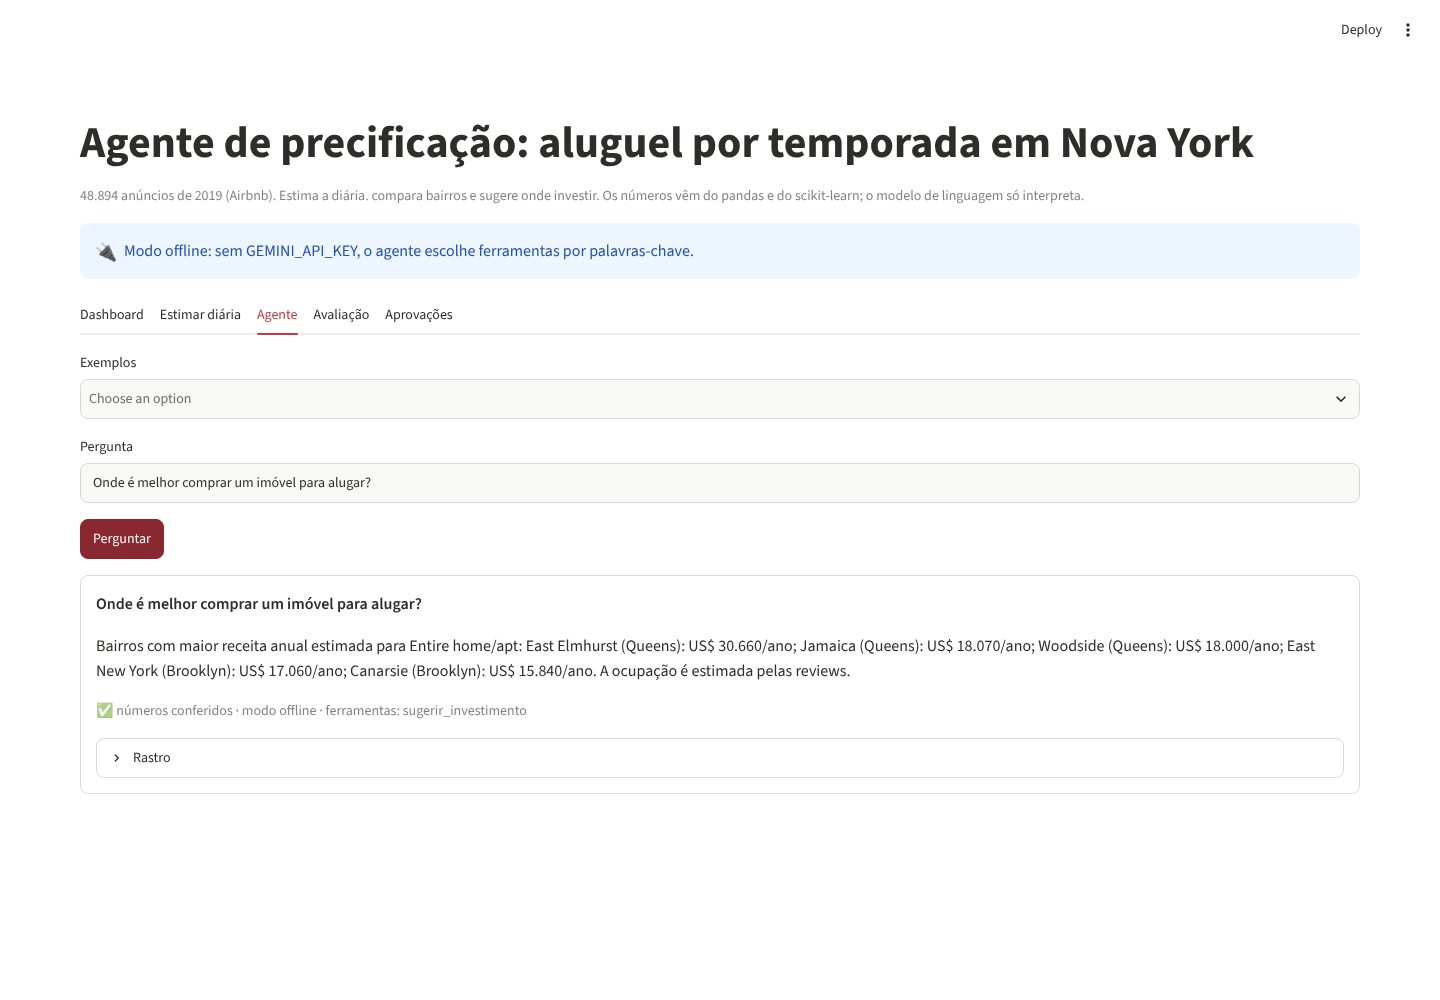
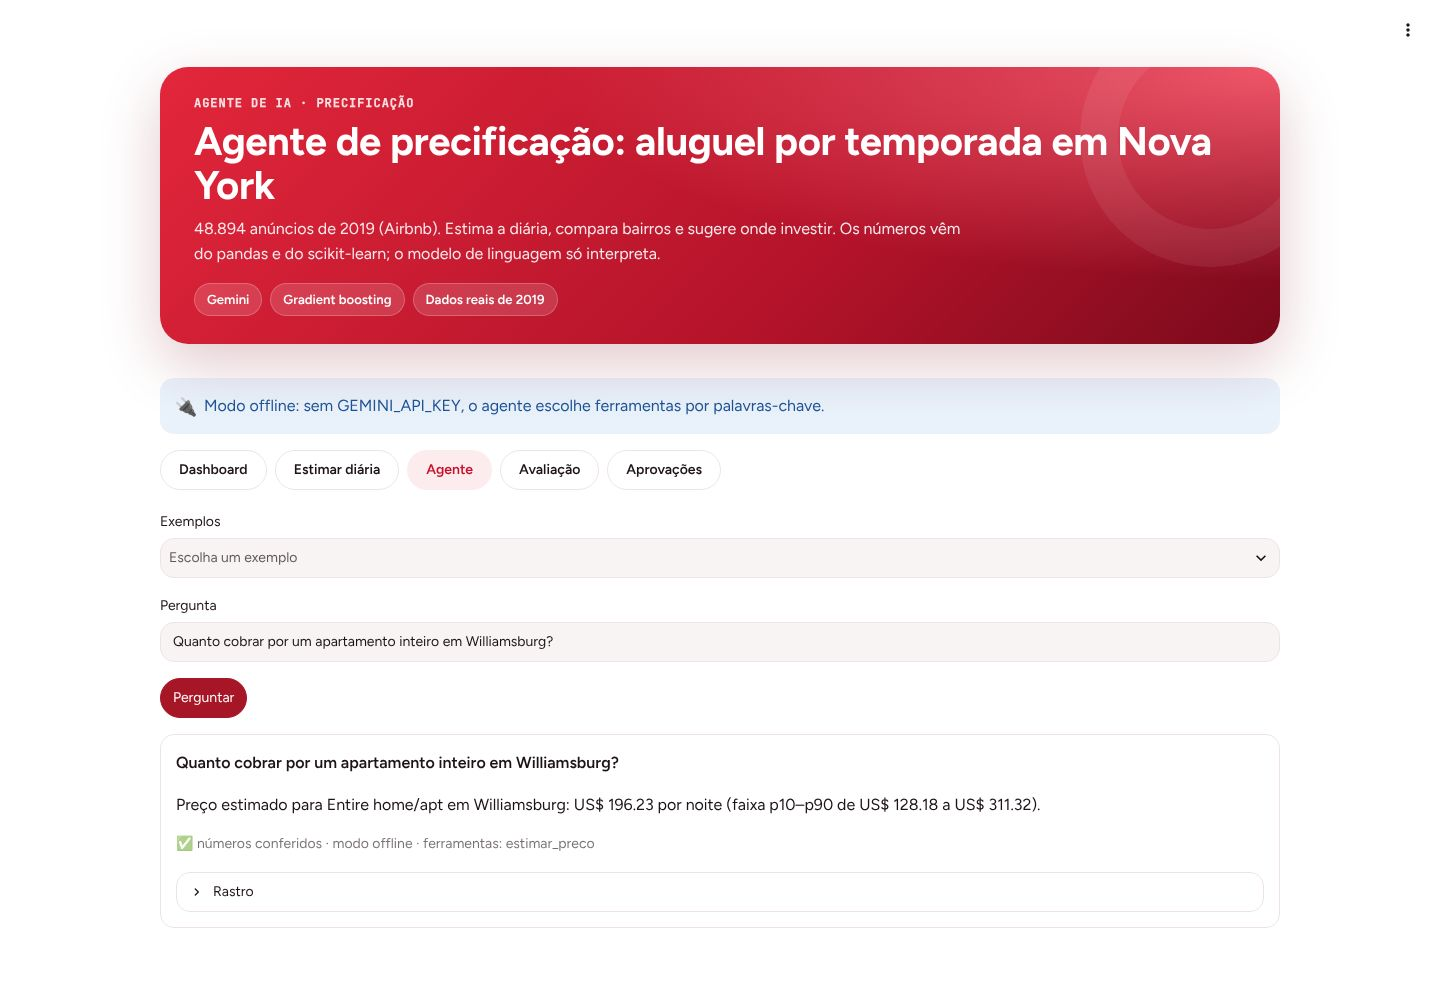
Dashboard com a identidade visual do portfólio
- .streamlit/config.toml: tema claro e escuro (vermelho #E3263B, Figtree e Bricolage Grotesque) e paletas de gráfico validadas para daltonismo
- app/tema.py: cabeçalho, cards de KPI, abas em pílula, selos de status com ícone e cores dos gráficos pela paleta
- capturas do README refeitas; streamlit>=1.51 (seções [theme.light] e [theme.dark])

Claude-Session: https://claude.ai/code/session_01WR8CaPDQRav6xXD6FyLt9e

diff --git a/app/tema.py b/app/tema.py
@@ -1,0 +1,142 @@
+"""Identidade visual compartilhada pelos dashboards: a mesma do portfólio (henriquecm02.github.io).
+
+Cores, fontes e raios ficam em `.streamlit/config.toml` (modo claro e escuro). Este módulo só acrescenta o que o tema
+do Streamlit não cobre: o cabeçalho, os cards de KPI, as abas em pílula e cores para traços com cor explícita.
+Copiado de forma idêntica em cada repositório, como o agentcore.py.
+"""
+from __future__ import annotations
+
+import html
+
+import streamlit as st
+
+# Mesma ordem das paletas do config.toml (validadas para daltonismo). Cor segue a entidade, nunca a posição.
+PALETA = {"claro": ["#E3263B", "#2a78d6", "#eda100", "#1baf7a", "#6250d6"],
+          "escuro": ["#E8455A", "#3987e5", "#c98500", "#199e70", "#9085e9"]}
+NEUTRO = {"claro": "#9A8A8D", "escuro": "#8C7E80"}  # série de referência: histórico, linha de base
+# Escala sequencial (magnitude): um só tom, do claro ao escuro (no modo escuro, do escuro ao claro).
+SEQUENCIAL = {"claro": ["#FDECEE", "#F6B3BC", "#EC6A7B", "#E3263B", "#B3132A", "#7A0A1B"],
+              "escuro": ["#3A1218", "#7A0A1B", "#B3132A", "#E3263B", "#EC6A7B", "#F6B3BC"]}
+STATUS = {"ok": ("#157347", "✅"), "atencao": ("#8A5200", "⚠"), "critico": ("#C8102E", "⛔")}
+
+
+def modo() -> str:
+    try:
+        return "escuro" if st.context.theme.type == "dark" else "claro"
+    except Exception:  # noqa: BLE001 - fora de uma sessão (testes, scripts) não há tema
+        return "claro"
+
+
+def cor(i: int) -> str:
+    """Cor categórica do slot i (0 = vermelho da marca)."""
+    return PALETA[modo()][i]
+
+
+def cores(n: int) -> list[str]:
+    """As n primeiras cores categóricas, na ordem fixa. Mais de 5 séries: agrupar em "Outros" ou separar."""
+    if n > len(PALETA["claro"]):
+        raise ValueError("Mais de 5 séries: agrupe em 'Outros' ou use pequenos múltiplos.")
+    return PALETA[modo()][:n]
+
+
+def sequencial() -> list[str]:
+    return SEQUENCIAL[modo()]
+
+
+def neutro() -> str:
+    return NEUTRO[modo()]
+
+
+def texto_secundario() -> str:
+    """Cor de rótulos de valor dentro de gráficos: texto, nunca a cor da série."""
+    return "#B9ACAE" if modo() == "escuro" else "#6B5C5F"
+
+
+def rgba(hex_: str, alpha: float) -> str:
+    h = hex_.lstrip("#")
+    return f"rgba({int(h[0:2], 16)},{int(h[2:4], 16)},{int(h[4:6], 16)},{alpha})"
+
+
+def selo(nivel: str, texto: str) -> str:
+    """Selo de status em HTML: sempre ícone + texto, nunca só a cor."""
+    c, icone = STATUS[nivel]
+    return (f'<span class="hc-selo" style="--c:{c}">{icone} {html.escape(texto)}</span>')
+
+
+_CSS = """
+<style>
+.block-container, [data-testid="stMainBlockContainer"] { padding-top: 4.2rem; max-width: 1280px; }
+[data-testid="stHeader"] { background: transparent; }
+h1, h2, h3 { letter-spacing: -0.01em; }
+.hc-hero { position: relative; overflow: hidden; border-radius: 28px; padding: 30px 34px 28px;
+  margin: 0 0 18px;
+  color: #fff; background: radial-gradient(120% 140% at 100% 0%, #F0566A 0%, rgba(240,86,106,0) 55%),
+  linear-gradient(135deg, #E3263B 0%, #B3132A 62%, #7A0A1B 100%);
+  box-shadow: 0 20px 60px rgba(122,10,27,.22); }
+.hc-hero::after { content: ""; position: absolute; right: -60px; top: -60px; width: 260px; height: 260px;
+  border-radius: 50%;
+  border: 38px solid rgba(255,255,255,.07); }
+.hc-hero .k { font: 700 12px/1 var(--hc-mono, "JetBrains Mono", monospace); letter-spacing: .08em;
+  text-transform: uppercase;
+  opacity: .85; margin-bottom: 10px; }
+.hc-hero h1 { color: #fff !important; font-size: clamp(1.7rem, 3.2vw, 2.5rem); line-height: 1.1;
+  margin: 0 0 10px; padding: 0; }
+.hc-hero p { color: rgba(255,255,255,.9); max-width: 780px; margin: 0; font-size: 1rem; line-height: 1.55; }
+.hc-hero .chips { display: flex; flex-wrap: wrap; gap: 8px; margin-top: 16px; }
+.hc-hero .chips span { background: rgba(255,255,255,.14); border: 1px solid rgba(255,255,255,.22);
+  border-radius: 999px;
+  padding: 5px 12px; font-size: .82rem; font-weight: 600; }
+[data-testid="stMetric"] { background: var(--hc-surface); border: 1px solid var(--hc-line);
+  border-radius: 20px;
+  padding: 16px 18px; min-height: 118px;
+  box-shadow: 0 1px 2px rgba(60,10,20,.05), 0 6px 18px rgba(60,10,20,.06); }
+[data-testid="stMetricLabel"] p { font-weight: 600; color: var(--hc-muted); }
+[data-testid="stMetricValue"] { font-weight: 700; letter-spacing: -0.02em; }
+[data-testid="stMetricDelta"] { max-width: 100%; border-radius: 10px !important; height: auto !important; }
+[data-testid="stMetricDelta"] p { white-space: normal !important; overflow: visible !important; }
+[role="tablist"] { gap: 8px; flex-wrap: wrap; border: 0 !important; box-shadow: none !important;
+  padding-bottom: 4px; }
+[role="tablist"]::after, [role="tablist"]::before { display: none !important; }
+[data-baseweb="tab-highlight"], [data-baseweb="tab-border"], .react-aria-SelectionIndicator { display: none
+  !important; }
+[role="tab"] { border-radius: 999px !important; padding: 8px 18px !important;
+  border: 1px solid var(--hc-line) !important;
+  background: var(--hc-surface) !important; height: auto !important;
+  transition: background .15s, border-color .15s; }
+[role="tab"]:hover { border-color: var(--hc-red) !important; }
+[role="tab"] p { font-weight: 600; margin: 0; }
+[role="tab"][aria-selected="true"] { background: var(--hc-soft) !important;
+  border-color: transparent !important; }
+[role="tab"][aria-selected="true"] p { color: var(--hc-red); }
+[data-testid="stVerticalBlockBorderWrapper"]:has(> div > [data-testid="stVerticalBlock"]) { border-radius:
+  20px; }
+[data-testid="stAlert"] { border-radius: 16px; }
+.hc-selo { display: inline-flex; align-items: center; gap: 6px; padding: 3px 10px; border-radius: 999px;
+  font-weight: 600;
+  font-size: .85rem; color: var(--c); background: color-mix(in srgb, var(--c) 12%, transparent); }
+.hc-nota { color: var(--hc-muted); font-size: .9rem; }
+</style>
+"""
+_TOKENS = {
+    "claro": "--hc-surface:#FFFFFF;--hc-line:#EEE4E5;--hc-muted:#6B5C5F;--hc-soft:#FDECEE;--hc-red:#C8102E;",
+    "escuro": "--hc-surface:#1F191A;--hc-line:#3A2F31;--hc-muted:#B9ACAE;--hc-soft:#3A1218;--hc-red:#F08E9B;",
+}
+
+
+def aplicar_tema(titulo: str, subtitulo: str, kicker: str = "", chips: list[str] | None = None) -> None:
+    """Injeta o CSS do portfólio e desenha o cabeçalho. Chamar logo depois de st.set_page_config."""
+    st.html(f"<style>:root{{{_TOKENS[modo()]}}}</style>" + _CSS)
+    chips_html = "".join(f"<span>{html.escape(c)}</span>" for c in chips or [])
+    st.html(f'<div class="hc-hero">{f"<div class=k>{html.escape(kicker)}</div>" if kicker else ""}'
+            f"<h1>{html.escape(titulo)}</h1><p>{html.escape(subtitulo)}</p>"
+            f'{f"<div class=chips>{chips_html}</div>" if chips_html else ""}</div>')
+
+
+def estilo_plotly(fig, altura: int | None = None, **layout):
+    """Acabamento comum dos gráficos Plotly: legenda no topo, hover unificado, margens enxutas."""
+    fig.update_layout(margin={"l": 8, "r": 8, "t": 36, "b": 8},
+                      legend={"orientation": "h", "yanchor": "bottom", "y": 1.02, "x": 0, "title_text": ""},
+                      hoverlabel={"font_family": "Figtree"}, **({"height": altura} if altura else {}), **layout)
+    fig.update_xaxes(showgrid=False)
+    fig.update_yaxes(zeroline=False)
+    return fig

diff --git a/app/streamlit_app.py b/app/streamlit_app.py
@@ -8,6 +8,7 @@ from pathlib import Path
 import pandas as pd
 import plotly.express as px
 import streamlit as st
+import tema
 
 ROOT = Path(__file__).resolve().parents[1]
 sys.path.insert(0, str(ROOT / "src"))
@@ -15,7 +16,6 @@ sys.path.insert(0, str(ROOT / "src"))
 from aluguelagent import core as C  # noqa: E402
 from aluguelagent.tools import build_agent, t_estimar, t_investir  # noqa: E402
 
-RED, GREY = "#E3263B", "#9A8A8D"
 st.set_page_config(page_title="Aluguel em NY · agente", page_icon="🗽", layout="wide")
 
 
@@ -31,10 +31,13 @@ agent = get_agent()
 st.session_state.setdefault("pending", [])
 st.session_state.setdefault("log", [])
 
-st.title("Agente de precificação: aluguel por temporada em Nova York")
 n_total = f"{len(C.load()):,}".replace(",", ".")
-st.caption(f"{n_total} anúncios de 2019 (Airbnb). Estima a diária, compara bairros e sugere onde investir. "
-           "Os números vêm do pandas e do scikit-learn; o modelo de linguagem só interpreta.")
+tema.aplicar_tema(
+    "Agente de precificação: aluguel por temporada em Nova York",
+    f"{n_total} anúncios de 2019 (Airbnb). Estima a diária, compara bairros e sugere onde investir. "
+    "Os números vêm do pandas e do scikit-learn; o modelo de linguagem só interpreta.",
+    kicker="Agente de IA · precificação",
+    chips=["Gemini", "Gradient boosting", "Dados reais de 2019"])
 if agent.llm is None:
     st.info("Modo offline: sem GEMINI_API_KEY, o agente escolhe ferramentas por palavras-chave.", icon="🔌")
 
@@ -52,18 +55,18 @@ with tab_dash:
     with c1:
         st.subheader("Mapa de preços")
         amostra = df.sample(6000, random_state=0)
-        fig = px.scatter(amostra, x="longitude", y="latitude", color="price", color_continuous_scale=["#F6D5DA", RED, "#5A0714"],
+        fig = px.scatter(amostra, x="longitude", y="latitude", color="price", color_continuous_scale=tema.sequencial(),
                          range_color=(40, 400), opacity=0.6, hover_name="nome", labels={"price": "US$/noite"})
         fig.update_traces(marker={"size": 4})
         fig.update_layout(height=460, margin={"l": 10, "r": 10, "t": 10, "b": 10}, xaxis_visible=False, yaxis_visible=False)
         fig.update_yaxes(scaleanchor="x", scaleratio=1.32)
-        st.plotly_chart(fig, use_container_width=True)
+        st.plotly_chart(tema.estilo_plotly(fig), use_container_width=True)
     with c2:
         st.subheader("Diária por região e tipo")
         fig2 = px.box(df, x="bairro_group", y="price", color="room_type", points=False, log_y=True,
-                      color_discrete_sequence=[RED, GREY, "#3B82C4"], labels={"price": "US$/noite (log)", "bairro_group": ""})
+                      color_discrete_sequence=tema.cores(3), labels={"price": "US$/noite (log)", "bairro_group": ""})
         fig2.update_layout(height=460, margin={"l": 10, "r": 10, "t": 10, "b": 10}, legend={"orientation": "h", "y": -0.15, "title": ""})
-        st.plotly_chart(fig2, use_container_width=True)
+        st.plotly_chart(tema.estilo_plotly(fig2), use_container_width=True)
     c3, c4 = st.columns(2)
     with c3:
         st.subheader("Onde investir (apartamento inteiro)")
@@ -73,10 +76,10 @@ with tab_dash:
     with c4:
         st.subheader("O que pesa no preço")
         imp = pd.DataFrame(C.importance()).sort_values("aumento_mae")
-        fig3 = px.bar(imp, x="aumento_mae", y="grupo", orientation="h", color_discrete_sequence=[RED],
+        fig3 = px.bar(imp, x="aumento_mae", y="grupo", orientation="h", color_discrete_sequence=[tema.cor(0)],
                       labels={"aumento_mae": "aumento do erro médio (US$) ao embaralhar", "grupo": ""})
         fig3.update_layout(height=320, margin={"l": 10, "r": 10, "t": 10, "b": 10})
-        st.plotly_chart(fig3, use_container_width=True)
+        st.plotly_chart(tema.estilo_plotly(fig3), use_container_width=True)
 
 with tab_preco:
     a, b, c = st.columns(3)
@@ -91,7 +94,8 @@ with tab_preco:
 
 with tab_agent:
     ex = st.selectbox("Exemplos", ["", "Quanto cobrar por um apartamento inteiro em Williamsburg?", "Onde é melhor comprar um imóvel para alugar?",
-                                   "O mínimo de noites e a disponibilidade interferem no preço?", "Existe padrão no nome dos anúncios mais caros?"])
+                                   "O mínimo de noites e a disponibilidade interferem no preço?", "Existe padrão no nome dos anúncios mais caros?"],
+                      placeholder="Escolha um exemplo")
     q = st.text_input("Pergunta", value=ex)
     if st.button("Perguntar", type="primary") and q.strip():
         r = agent.run(q)

diff --git a/tests/test_app.py b/tests/test_app.py
@@ -1,0 +1,12 @@
+"""O dashboard sobe sem erro (Streamlit AppTest, sem rede)."""
+from pathlib import Path
+
+from streamlit.testing.v1 import AppTest
+
+APP = Path(__file__).resolve().parents[1] / "app" / "streamlit_app.py"
+
+
+def test_dashboard_renderiza_sem_erro():
+    at = AppTest.from_file(str(APP), default_timeout=180).run()
+    assert not at.exception, at.exception
+    assert len(at.metric) >= 1
